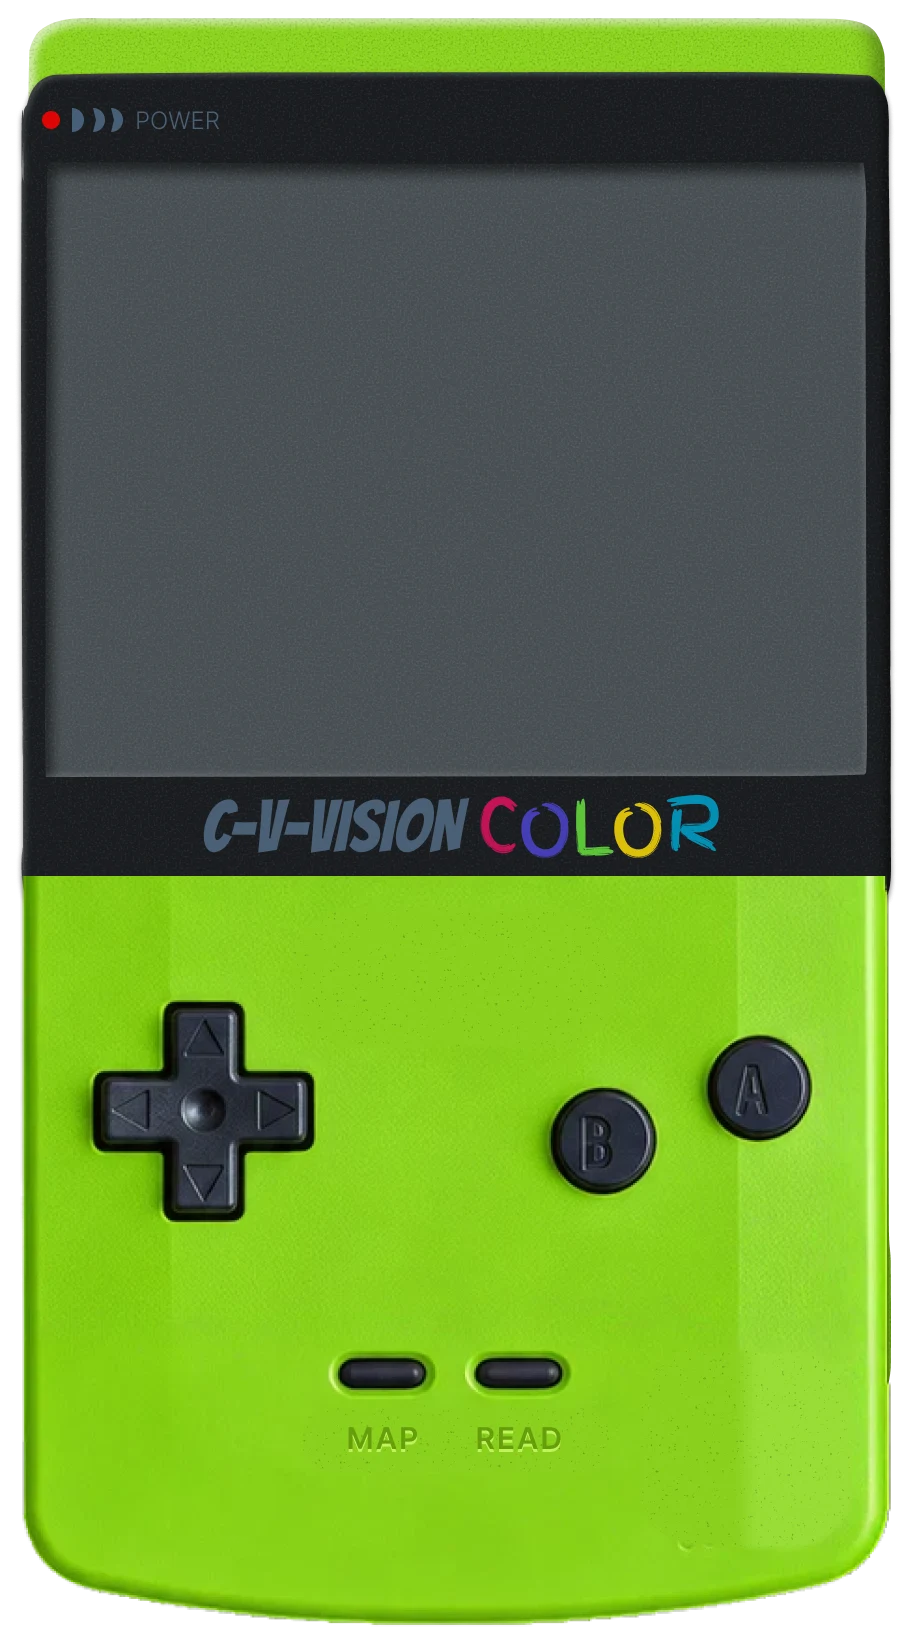
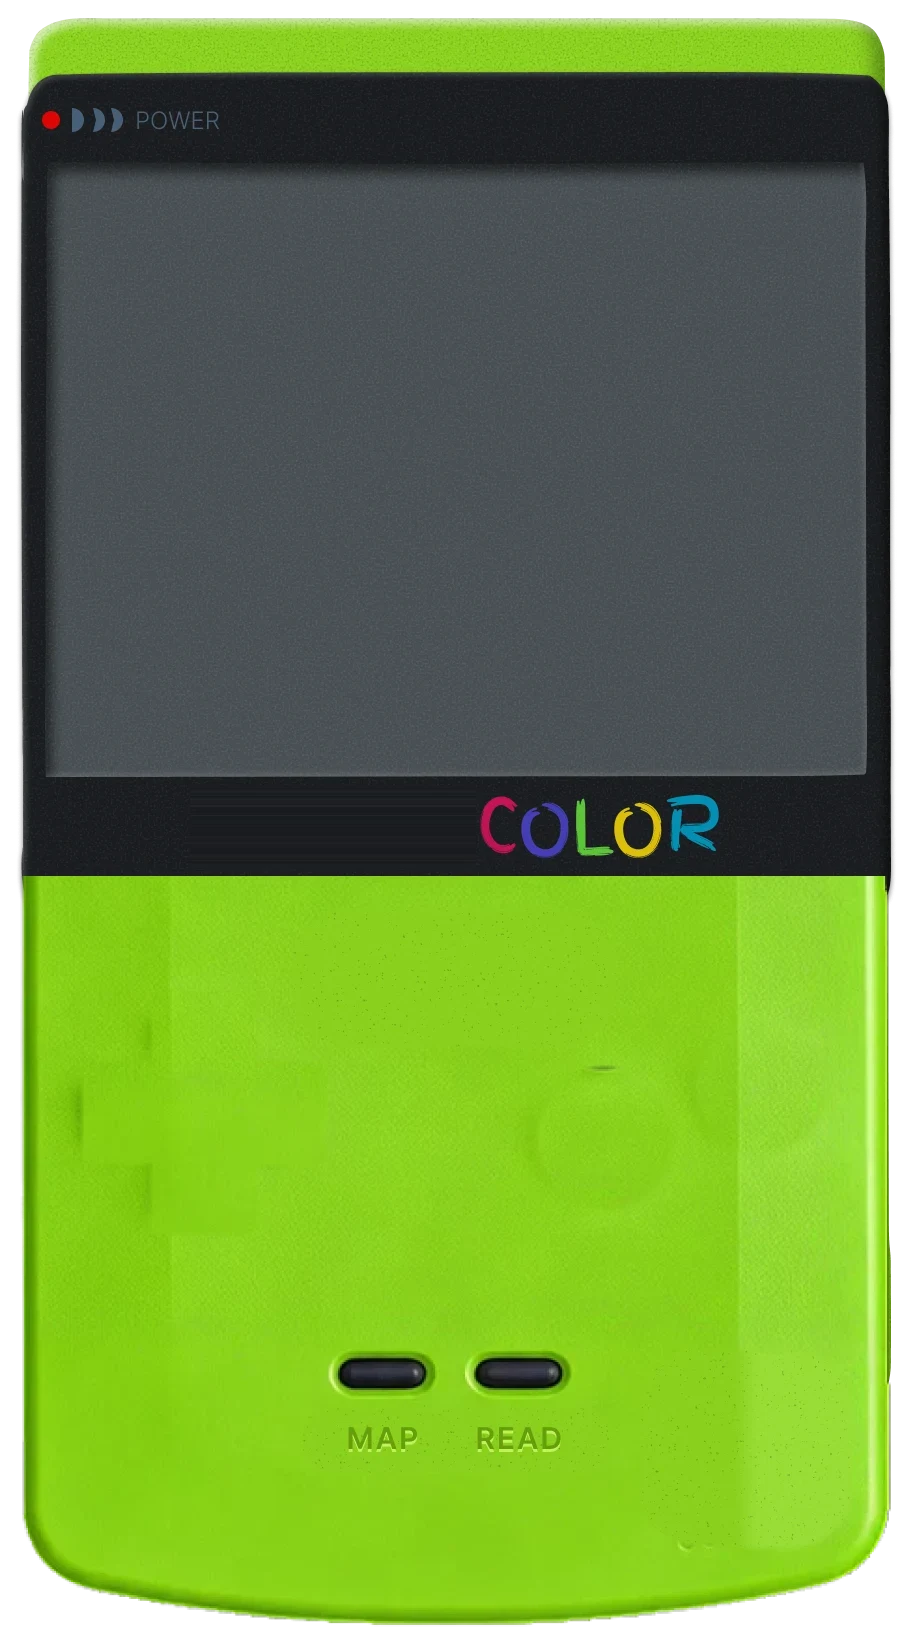
Tighten the controls and rework the phone buttons
Mario-style jumps tuned for these levels, quicker stops, hold-to-climb
cape flight and jump on A only. On phones, B sits above A for one-thumb
running jumps, buttons react to presses and the label reads C-V-ision.

diff --git a/src/game/Player.ts b/src/game/Player.ts
@@ -3,15 +3,42 @@ import { ChibiRig } from '../art/hero';
 import { sfx } from './sfx';
 import { type Hero, ui } from './state';
 
-const WALK = 85;
-const RUN = 140;
-const ACCEL = 520;
-const DECEL = 640;
-const JUMP = 330;
-const RUN_JUMP = 365;
-const JUMP_CUT = 120;
-/** Top falling (and rising) speed, except during a launch. */
-const FALL = 600;
+// The shape comes from Super Mario Bros. 3: light gravity while rising with jump held, heavy otherwise, a stronger
+// takeoff at speed. The amounts are tuned tighter than its numbers, to suit these levels: shorter, quicker jumps
+// and a hero who stops when you let go.
+const WALK = 78;
+const RUN = 125;
+const P_RUN = 165;
+const ACCEL = 700;
+/** Turning against your speed, so changing direction is immediate. */
+const SKID = 1500;
+/** Letting go on the ground: nearly a dead stop. In the air speed mostly carries. */
+const DECEL = 1100;
+const AIR_DRAG = 160;
+const JUMP = 270;
+/** Faster takes off harder: extra px/s at walking, running and full-P speed. */
+const JUMP_BONUS = [0, 10, 20, 30];
+const GRAVITY_RISE = 500;
+const GRAVITY = 1500;
+/** Above this upward speed the light gravity stops, even with jump held. */
+const RISE_END = 150;
+/** Top falling speed. */
+const FALL = 320;
+/** Top rising speed, for springs and launches. */
+const RISE_MAX = 600;
+/** Forgiveness (ms): a jump still works just after leaving a ledge, and a press just before landing counts. */
+const COYOTE = 80;
+const JUMP_BUFFER = 100;
+/** The P-meter: seconds to fill while running flat out, and to empty after. */
+const P_FILL = 0.55;
+const P_DRAIN = 2.3;
+/** Flight: hold jump to climb. */
+const FLY_MS = 5000;
+const FLY_CLIMB = 150;
+const FLY_LIFT = 900;
+const FLY_SPEED = 140;
+/** With the cape, pressing jump again in the air and holding it slows the fall to this. */
+const FLOAT_FALL = 80;
 
 export interface Controls {
   left: Phaser.Input.Keyboard.Key[];
@@ -26,12 +53,12 @@ export function createControls(scene: Phaser.Scene): Controls {
   const K = Phaser.Input.Keyboard.KeyCodes;
   const keys = (...codes: number[]) => codes.map((c) => k.addKey(c, false));
   return {
-    // WASD + K (run) and L (jump) are the advertised scheme, with Space and Alt/Option beside them
+    // A/D + K (run) and L (jump) are the advertised scheme, with Space and Alt/Option beside them; up never jumps
     // for thumbs on the space bar; arrows/shift still work. (Not Cmd: Cmd+W would close the tab.)
     left: keys(K.A, K.LEFT),
     right: keys(K.D, K.RIGHT),
     down: keys(K.S, K.DOWN),
-    jump: keys(K.L, K.W, K.SPACE, K.Z, K.UP),
+    jump: keys(K.L, K.SPACE, K.Z),
     // Alt is captured so it can't pop open the browser's menu bar
     run: [...keys(K.K, K.SHIFT, K.X), k.addKey(K.ALT, true)],
   };
@@ -52,9 +79,14 @@ export class Player extends Phaser.Physics.Arcade.Sprite {
   /** 0..1, fills while running flat out on the ground. */
   pMeter = 0;
   private flyUntil = 0;
-  private floatUntil = 0;
   /** The current ascent came from a jump, so releasing jump cuts it short. */
   private jumping = false;
+  /** Thrown by a spring or launch: it keeps the plain world gravity those heights are worked out with. */
+  private launched = false;
+  private lastGround = -1e9;
+  private jumpWanted = -1e9;
+  /** The cape is catching this fall: jump was pressed again in the air and is still held. */
+  private floating = false;
 
   /** Felt courses draw the chosen felt hero as a puppet; this sprite then only carries the physics body. */
   private rig?: ChibiRig;
@@ -79,7 +111,7 @@ export class Player extends Phaser.Physics.Arcade.Sprite {
       scene.events.on(Phaser.Scenes.Events.POST_UPDATE, follow);
       this.once(Phaser.GameObjects.Events.DESTROY, () => scene.events.off(Phaser.Scenes.Events.POST_UPDATE, follow));
     }
-    this.body.setMaxVelocity(RUN, FALL);
+    this.body.setMaxVelocity(P_RUN, RISE_MAX);
     this.setDepth(10);
   }
 
@@ -104,19 +136,21 @@ export class Player extends Phaser.Physics.Arcade.Sprite {
 
   bounce() {
     this.jumping = false;
-    this.setVelocityY(held(this.controls.jump) ? -320 : -200);
+    this.setVelocityY(held(this.controls.jump) ? -380 : -240);
   }
 
   /** Launch off a spring-like surface (note blocks). Holding jump goes higher. */
   spring(low: number, high: number) {
     this.jumping = false;
+    this.launched = true;
     this.setVelocityY(held(this.controls.jump) ? -high : -low);
   }
 
   /** Shot straight up (the super note, the slingshot): faster than the usual speed cap, until it peaks. */
   launch(speed: number) {
     this.jumping = false;
-    this.body.maxVelocity.y = Math.max(FALL, speed);
+    this.launched = true;
+    this.body.maxVelocity.y = Math.max(RISE_MAX, speed);
     this.setVelocityY(-speed);
   }
 
@@ -129,55 +163,69 @@ export class Player extends Phaser.Physics.Arcade.Sprite {
     const b = this.body;
     const onGround = b.blocked.down || b.touching.down;
     const running = held(c.run);
-    const max = running ? RUN : WALK;
+    const full = this.pMeter >= 0.98;
+    const max = !running ? WALK : full ? P_RUN : RUN;
     const dir = (held(c.right) ? 1 : 0) - (held(c.left) ? 1 : 0);
+    const now = this.scene.time.now;
+    const dt = this.scene.game.loop.delta / 1000;
+    const speed = Math.abs(b.velocity.x);
 
     if (this.hurting && !onGround) {
       // keep knockback momentum
     } else if (dir !== 0) {
       const turning = Math.sign(b.velocity.x) === -dir;
-      b.setAccelerationX(dir * (turning ? ACCEL * 2 : ACCEL));
-      if (Math.abs(b.velocity.x) > max) b.velocity.x = Math.sign(b.velocity.x) * max;
+      // past this gait's top speed: ease down on the ground, keep it in the air
+      const over = speed > max && !turning;
+      b.setAccelerationX(over ? 0 : dir * (turning ? SKID : ACCEL));
+      if (over && onGround) b.velocity.x = Math.sign(b.velocity.x) * Math.max(max, speed - DECEL * dt);
       this.setFlipX(dir < 0);
     } else {
       b.setAccelerationX(0);
-      const v = b.velocity.x;
-      const step = (DECEL * this.scene.game.loop.delta) / 1000;
-      b.velocity.x = Math.abs(v) <= step ? 0 : v - Math.sign(v) * step;
+      const step = (onGround ? DECEL : AIR_DRAG) * dt;
+      b.velocity.x = speed <= step ? 0 : b.velocity.x - Math.sign(b.velocity.x) * step;
     }
+    if (this.flying && Math.abs(b.velocity.x) > FLY_SPEED) b.velocity.x = Math.sign(b.velocity.x) * FLY_SPEED;
 
     this.downPressed = onGround && pressed(c.down);
 
-    const now = this.scene.time.now;
-    const dt = this.scene.game.loop.delta / 1000;
     if (onGround) {
-      const flatOut = running && dir !== 0 && Math.abs(b.velocity.x) >= RUN - 12;
-      this.pMeter = Phaser.Math.Clamp(this.pMeter + (flatOut ? dt / 0.8 : -dt / 0.6), 0, 1);
-    } else if (!this.flying) {
-      this.pMeter = Math.max(0, this.pMeter - dt / 2);
+      this.lastGround = now;
+      if (b.velocity.y >= 0) this.flyUntil = 0;
+      const flatOut = running && dir !== 0 && speed >= RUN - 12;
+      this.pMeter = Phaser.Math.Clamp(this.pMeter + (flatOut ? dt / P_FILL : -dt / P_DRAIN), 0, 1);
     }
 
+    const jumpHeld = held(c.jump);
     const jumpTap = pressed(c.jump);
-    if (onGround && jumpTap) {
-      b.setVelocityY(-(Math.abs(b.velocity.x) > WALK + 10 ? RUN_JUMP : JUMP));
+    if (jumpTap) this.jumpWanted = now;
+    const canJump = now - this.lastGround < COYOTE && b.velocity.y >= -1;
+    if (canJump && now - this.jumpWanted < JUMP_BUFFER) {
+      b.setVelocityY(-(JUMP + JUMP_BONUS[Math.min(3, Math.floor(speed / 55))]));
       this.jumping = true;
-      if (this.powered && this.pMeter >= 0.98) this.flyUntil = now + 4000;
+      this.launched = false;
+      this.lastGround = this.jumpWanted = -1e9;
+      if (this.powered && full) this.flyUntil = now + FLY_MS;
       sfx.jump();
     } else if (!onGround && jumpTap && this.powered) {
-      // Flutter: in flight each tap climbs, otherwise it slows the fall.
-      if (this.flying) {
-        b.setVelocityY(Math.min(b.velocity.y, -200));
-        this.jumping = false;
-      } else this.floatUntil = now + 260;
+      // a full meter takes off from the air too; otherwise the cape catches you (below)
+      if (full && !this.flying) this.flyUntil = now + FLY_MS;
+      this.floating = true;
       sfx.jump();
     }
     if (b.velocity.y >= 0) {
-      this.jumping = false;
-      b.maxVelocity.y = FALL; // a launch is over once it peaks
+      this.jumping = this.launched = false;
+      b.maxVelocity.y = RISE_MAX; // a launch is over once it peaks
     }
-    if (this.jumping && !held(c.jump) && b.velocity.y < -JUMP_CUT) b.velocity.y = -JUMP_CUT;
-    if (now < this.floatUntil && b.velocity.y > 50) b.velocity.y = 50;
+
+    const climbing = this.flying && jumpHeld;
     if (this.flying) this.pMeter = 1;
+    if (climbing) b.velocity.y = Math.max(-FLY_CLIMB, b.velocity.y - FLY_LIFT * dt);
+    const world = this.scene.physics.world.gravity.y;
+    const rising = this.jumping && jumpHeld && b.velocity.y < -RISE_END;
+    b.setGravityY(climbing ? -world : this.launched ? 0 : (rising ? GRAVITY_RISE : GRAVITY) - world);
+    if (onGround || !jumpHeld) this.floating = false;
+    const fall = this.floating ? FLOAT_FALL : FALL;
+    if (b.velocity.y > fall) b.velocity.y = fall;
 
     const k = this.powered ? 'playerF' : 'player';
     if (this.rig) {

diff --git a/src/ui/phone.ts b/src/ui/phone.ts
@@ -6,14 +6,14 @@ import { showQuickView } from './overlays';
 // laid out in style.css) and its buttons are touch buttons that press the
 // same keys the keyboard does: the D-pad moves (down is S: pipes, billboards,
 // the slingshot), A jumps, picks and closes cards, B runs, SELECT is Esc (back
-// to the map) and START always opens the case studies. A press on the seam between B and A presses both, for
-// running jumps.
+// to the map) and START always opens the case studies. B sits above A, so a thumb resting on B rolls down
+// onto A for a running jump; every press grows and lights up its button.
 
 const CODES: Record<string, number> = { ArrowLeft: 37, ArrowUp: 38, ArrowRight: 39, ArrowDown: 40, ' ': 32, k: 75, Escape: 27, Enter: 13 };
 const A = ' ';
 const B = 'k';
 
-/** Keys held by the touch buttons, counted, so two buttons on one key (A and the seam) don't let it go early. */
+/** Keys held by the touch buttons, counted, so two fingers on one key don't let it go early. */
 const held = new Map<string, number>();
 
 /** Keeps a finger's moves and lift on the button it went down on, even if it slides off. */
@@ -65,6 +65,57 @@ function button(el: HTMLElement, keys: string[], onPress?: () => void) {
   el.addEventListener('pointerup', () => onPress && el.classList.remove('down'));
 }
 
+/**
+ * B and A share one touch zone, so a single thumb can work both: it holds B once it has touched it, and presses
+ * A only while it's on A, rolling on and off to jump again and again. Between them it presses both.
+ */
+function faceButtons(zone: HTMLElement, a: HTMLElement, b: HTMLElement) {
+  const fingers = new Map<number, { a: boolean; b: boolean }>();
+  const show = () => {
+    a.classList.toggle('down', held.has(A));
+    b.classList.toggle('down', held.has(B));
+  };
+  const set = (e: PointerEvent, first: boolean) => {
+    const box = (el: HTMLElement) => {
+      const r = el.getBoundingClientRect();
+      return { x: r.left + r.width / 2, y: r.top + r.height / 2, r: r.width / 2 };
+    };
+    const ra = box(a);
+    const rb = box(b);
+    const da = Math.hypot(e.clientX - ra.x, e.clientY - ra.y);
+    const db = Math.hypot(e.clientX - rb.x, e.clientY - rb.y);
+    const seam = Math.hypot(e.clientX - (ra.x + rb.x) / 2, e.clientY - (ra.y + rb.y) / 2) < ra.r * 0.55;
+    const prev = fingers.get(e.pointerId) ?? { a: false, b: false };
+    const next = { a: seam || da < ra.r * 1.2, b: prev.b || seam || db < rb.r * 1.2 };
+    // a first touch anywhere in the zone counts as the nearer button
+    if (first && !next.a && !next.b) {
+      if (da < db) next.a = true;
+      else next.b = true;
+    }
+    if (next.a !== prev.a) (next.a ? press : release)(A);
+    if (next.b !== prev.b) (next.b ? press : release)(B);
+    fingers.set(e.pointerId, next);
+    show();
+  };
+  zone.addEventListener('pointerdown', (e) => {
+    e.preventDefault();
+    capture(zone, e.pointerId);
+    navigator.vibrate?.(8);
+    set(e, true);
+  });
+  zone.addEventListener('pointermove', (e) => fingers.has(e.pointerId) && set(e, false));
+  const end = (e: PointerEvent) => {
+    const f = fingers.get(e.pointerId);
+    if (!f) return;
+    if (f.a) release(A);
+    if (f.b) release(B);
+    fingers.delete(e.pointerId);
+    show();
+  };
+  zone.addEventListener('pointerup', end);
+  zone.addEventListener('pointercancel', end);
+}
+
 /** The D-pad: the finger's offset from its centre picks one or two arrows, and it can slide between them. */
 function dpad(el: HTMLElement) {
   const fingers = new Map<number, Set<string>>();
@@ -108,18 +159,17 @@ export function setupPhone(game: Phaser.Game) {
   const pad = document.createElement('div');
   pad.id = 'pad';
   pad.innerHTML = `
-    <div class="pad-dpad" aria-label="D-pad"></div>
-    <button class="pad-b" type="button" aria-label="B: run"></button>
-    <button class="pad-ab" type="button" aria-label="B and A"></button>
-    <button class="pad-a" type="button" aria-label="A: jump"></button>
+    <p class="pad-brand">C-V-ision</p>
+    <div class="pad-dpad" aria-label="D-pad"><i></i></div>
+    <div class="pad-face" aria-label="B: run. A: jump."></div>
+    <span class="pad-b"></span>
+    <span class="pad-a"></span>
     <button class="pad-select" type="button" aria-label="Select: back to the map"></button>
     <button class="pad-start" type="button" aria-label="Start: read the case studies"></button>`;
   shell.appendChild(pad);
   const $ = (s: string) => pad.querySelector<HTMLElement>(s)!;
   dpad($('.pad-dpad'));
-  button($('.pad-a'), [A]);
-  button($('.pad-b'), [B]);
-  button($('.pad-ab'), [B, A]);
+  faceButtons($('.pad-face'), $('.pad-a'), $('.pad-b'));
   button($('.pad-select'), ['Escape']);
   button($('.pad-start'), [], () => {
     if (!ui.blocking) {

diff --git a/src/style.css b/src/style.css
@@ -578,7 +578,7 @@ body.qv-open #stage, body.qv-open #dev-panel { visibility: hidden; }
 
 /* ---------- Phone: the game in a Game Boy Color ---------- */
 
-/* The Game Boy is a photo (gameboy-color.webp, 305x546 at 3x, exported from Figma) as wide as the phone allows; the game sits on its
+/* The Game Boy is a photo (gameboy-color.webp, 305x546 at 3x, its controls cut out into gb-*.png) as wide as the phone allows; the game sits on its
    screen and touch buttons sit on its own (src/ui/phone.ts). Positions are % of the photo. */
 body.phone #stage { perspective: none; touch-action: none; -webkit-user-select: none; user-select: none; -webkit-touch-callout: none; }
 body.phone #tv {
@@ -592,6 +592,7 @@ body.phone #tv {
 }
 body.phone #tv-flip {
   aspect-ratio: 305 / 546;
+  container-type: inline-size;
   background: url("./art/page/gameboy-color.webp") center / 100% 100% no-repeat;
   filter: drop-shadow(0 16px 26px rgba(0, 0, 0, 0.5));
 }
@@ -614,17 +615,23 @@ body.phone .story-img img { max-height: calc(var(--px) * 85); }
   touch-action: none;
   -webkit-tap-highlight-color: transparent;
 }
-#pad > .down { background: radial-gradient(circle, rgba(0, 0, 0, 0.3), transparent 70%); }
-.pad-dpad { left: 22.1%; top: 67.8%; width: 36%; aspect-ratio: 1; }
-.pad-dpad[data-dir~="ArrowLeft"] { background: radial-gradient(circle at 20% 50%, rgba(0, 0, 0, 0.3), transparent 30%); }
-.pad-dpad[data-dir~="ArrowRight"] { background: radial-gradient(circle at 80% 50%, rgba(0, 0, 0, 0.3), transparent 30%); }
-.pad-dpad[data-dir~="ArrowUp"] { background: radial-gradient(circle at 50% 20%, rgba(0, 0, 0, 0.3), transparent 30%); }
-.pad-dpad[data-dir~="ArrowDown"] { background: radial-gradient(circle at 50% 80%, rgba(0, 0, 0, 0.3), transparent 30%); }
-.pad-a, .pad-b, .pad-ab { aspect-ratio: 1; border-radius: 50%; }
-.pad-a { left: 83%; top: 66.5%; width: 18%; }
-.pad-b { left: 65.9%; top: 69.6%; width: 18%; }
-/* the seam between B and A presses both, for running jumps */
-.pad-ab { left: 74.4%; top: 68%; width: 7%; z-index: 1; }
+#pad > .down { background: radial-gradient(circle, rgba(255, 255, 255, 0.55), transparent 70%); }
+/* the name printed on the shell, as on the TV */
+#pad > .pad-brand { right: 48.8%; top: 50.5%; translate: 0 -50%; margin: 0; font: 400 5.8cqw/1 "Young Serif", Georgia, serif; letter-spacing: 0.02em; color: #7d90a6; pointer-events: none; }
+/* the controls grow and light up while pressed, so a thumb can feel where it is */
+.pad-dpad { left: 22.3%; top: 67.9%; width: 36%; aspect-ratio: 1; }
+.pad-dpad i { position: absolute; inset: 13.6%; background: url("./art/page/gb-dpad.png") center / contain no-repeat; filter: drop-shadow(0 0.6cqw 0.8cqw rgba(0, 0, 0, 0.35)); transition: scale 0.07s, transform 0.07s, filter 0.07s; pointer-events: none; }
+.pad-dpad[data-dir*="Arrow"] i { scale: 1.1; filter: brightness(1.5) drop-shadow(0 0 2cqw rgba(255, 255, 255, 0.75)); }
+.pad-dpad[data-dir~="ArrowLeft"] i { transform: perspective(40cqw) rotateY(-14deg); }
+.pad-dpad[data-dir~="ArrowRight"] i { transform: perspective(40cqw) rotateY(14deg); }
+.pad-dpad[data-dir~="ArrowUp"] i { transform: perspective(40cqw) rotateX(14deg); }
+.pad-dpad[data-dir~="ArrowDown"] i { transform: perspective(40cqw) rotateX(-14deg); }
+/* B above A, so a thumb rolls from one to the other; both are worked through the zone behind them */
+.pad-face { left: 74%; top: 68%; width: 50%; height: 19%; }
+#pad > .pad-a, #pad > .pad-b { aspect-ratio: 1; border-radius: 50%; pointer-events: none; background: var(--art) center / contain no-repeat; filter: drop-shadow(0 0.6cqw 0.8cqw rgba(0, 0, 0, 0.35)); transition: scale 0.07s, filter 0.07s; }
+.pad-b { --art: url("./art/page/gb-btn-b.png"); left: 65.9%; top: 66.4%; width: 13.55%; }
+.pad-a { --art: url("./art/page/gb-btn-a.png"); left: 83.06%; top: 69.6%; width: 13.1%; }
+#pad > .pad-a.down, #pad > .pad-b.down { scale: 1.22; filter: brightness(1.6) drop-shadow(0 0 2.4cqw rgba(255, 255, 255, 0.85)); background: var(--art) center / contain no-repeat; }
 .pad-select, .pad-start { top: 83.9%; width: 14%; height: 6%; border-radius: 999px; }
 .pad-select { left: 41.8%; }
 .pad-start { left: 56.9%; }

diff --git a/src/scenes/CourseScene.ts b/src/scenes/CourseScene.ts
@@ -1342,7 +1342,7 @@ export class CourseScene extends Phaser.Scene {
         sfx.clear();
         const power = this.story.feather();
         const t = this.add
-          .text(p.x, p.y - 22, `${power ?? 'FEATHER!'}\nRUN + JUMP TO FLY`, { fontFamily: '"Luckiest Guy", sans-serif', fontSize: '8px', color: '#ffffff', stroke: '#5a3518', strokeThickness: 2, align: 'center' })
+          .text(p.x, p.y - 22, `${power ?? 'CAPE!'}\nRUN UNTIL P FLASHES, THEN HOLD JUMP TO FLY`, { fontFamily: '"Luckiest Guy", sans-serif', fontSize: '8px', color: '#ffffff', stroke: '#5a3518', strokeThickness: 2, align: 'center' })
           .setOrigin(0.5)
           .setResolution(Z)
           .setDepth(20);
